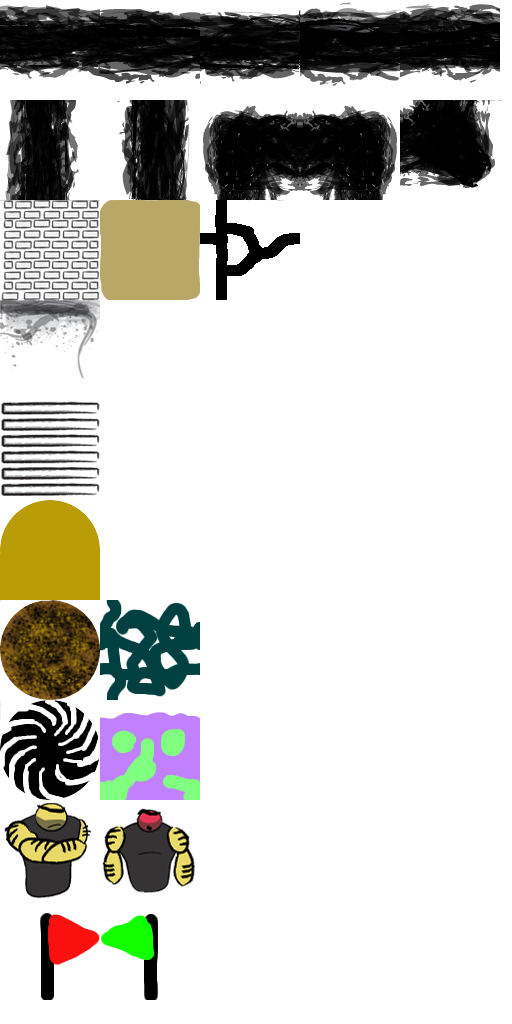
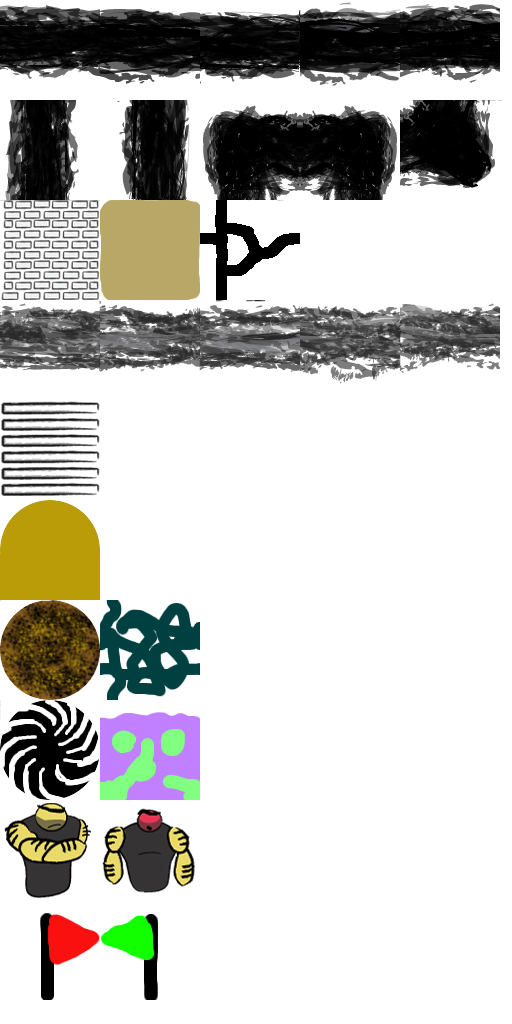
Added in random platforms and also fixed drawing of all corner tiles.

Changed region(s): [[0.0, 0.2812, 1.0, 0.375]]

diff --git a/src/wonder.cpp b/src/wonder.cpp
@@ -74,7 +74,11 @@ std::vector<Moveable*> Kurt::enable_ability(Map *m, int i, Player* p,
   setHSpeed(TILE_WIDTH);
   if (!will_collide_Dx(p) &&
       !will_collide_x(m) && 
-      !will_collide_tile(m, PLATFORM, NULL) &&
+      !will_collide_tile(m, PLATFORM1, NULL) &&
+      !will_collide_tile(m, PLATFORM2, NULL) &&
+      !will_collide_tile(m, PLATFORM3, NULL) &&
+      !will_collide_tile(m, PLATFORM4, NULL) &&
+      !will_collide_tile(m, PLATFORM5, NULL) &&
       !will_collide_specials(specials, i) &&
       !will_collide_moveables_x(moveables, -1, NULL))
   {
@@ -91,7 +95,11 @@ std::vector<Moveable*> Kurt::enable_ability(Map *m, int i, Player* p,
     setHSpeed(2*TILE_WIDTH);
     if (!will_collide_Dx(p) &&
         !will_collide_x(m) && 
-        !will_collide_tile(m, PLATFORM, NULL) &&
+        !will_collide_tile(m, PLATFORM1, NULL) &&
+        !will_collide_tile(m, PLATFORM2, NULL) &&
+        !will_collide_tile(m, PLATFORM3, NULL) &&
+        !will_collide_tile(m, PLATFORM4, NULL) &&
+        !will_collide_tile(m, PLATFORM5, NULL) &&
         !will_collide_specials(specials, i) &&
         !will_collide_moveables_x(moveables, -1, NULL))
     {
@@ -110,7 +118,11 @@ std::vector<Moveable*> Kurt::enable_ability(Map *m, int i, Player* p,
   setHSpeed(-TILE_WIDTH);
   if (!will_collide_Dx(p) &&
       !will_collide_x(m) && 
-      !will_collide_tile(m, PLATFORM, NULL) &&
+      !will_collide_tile(m, PLATFORM1, NULL) &&
+      !will_collide_tile(m, PLATFORM2, NULL) &&
+      !will_collide_tile(m, PLATFORM3, NULL) &&
+      !will_collide_tile(m, PLATFORM4, NULL) &&
+      !will_collide_tile(m, PLATFORM5, NULL) &&
       !will_collide_specials(specials, i) &&
       !will_collide_moveables_x(moveables, -1, NULL))
   {
@@ -126,7 +138,11 @@ std::vector<Moveable*> Kurt::enable_ability(Map *m, int i, Player* p,
     temp_move4->add_link(temp_move1);
     if (!will_collide_Dx(p) &&
         !will_collide_x(m) && 
-        !will_collide_tile(m, PLATFORM, NULL) &&
+        !will_collide_tile(m, PLATFORM1, NULL) &&
+        !will_collide_tile(m, PLATFORM2, NULL) &&
+        !will_collide_tile(m, PLATFORM3, NULL) &&
+        !will_collide_tile(m, PLATFORM4, NULL) &&
+        !will_collide_tile(m, PLATFORM5, NULL) &&
         !will_collide_specials(specials, i) &&
         !will_collide_moveables_x(moveables, -1, NULL))
     {

diff --git a/src/main.cpp b/src/main.cpp
@@ -209,12 +209,12 @@ void initLevel(int level)
 {
   // objects that are needed by the state
   Player *p;
-  Drawable *block1, *background, *breakable, *plat, *ladder, *paused_background;
+  Drawable *block1, *background, *breakable, *plat1, *ladder, *paused_background;
   Drawable *map_image, *pointer, *left_block, *right_block, *left_corner_block;
   Drawable *right_corner_block, *moveable, *goal, *block2, *block3, *block4;
   Drawable *block5, *black_hole, *bouncer_cr, *bouncer_cl, *bouncer_o, *rubber;
   Drawable *circuit, *n_check, *o_check, *toxic_sludge, *paused_names, *smog;
-  Drawable *br_bl, *bl_bl;
+  Drawable *br_bl, *bl_bl, *plat2, *plat3, *plat4, *plat5;
   Texture *t, *bg, *tiles, *pause_bg, *mi, *pi, *ahnold, *jumper, *nums, *ps_ic;
   Texture *engineer, *paris, *kurt, *p_names;
   vector<Texture*> textures;
@@ -378,7 +378,15 @@ void initLevel(int level)
   breakable = new Drawable(0.0f, 0.0f, BLOCKS, 1, TILE, tiles);
   moveable = new Drawable(0.0f, 0.0f, BLOCKS, 1, TILE, tiles);
   //moveable->set_cur_frame(MOVEABLE_BLOCK);
-  plat = new Drawable(0.0f, 0.0f, PLATS, 1, TILE, tiles);
+  plat1 = new Drawable(0.0f, 0.0f, PLATS, 1, TILE, tiles);
+  plat2 = new Drawable(0.0f, 0.0f, PLATS, 1, TILE, tiles);
+  plat2->set_cur_frame(2);
+  plat3 = new Drawable(0.0f, 0.0f, PLATS, 1, TILE, tiles);
+  plat2->set_cur_frame(3);
+  plat4 = new Drawable(0.0f, 0.0f, PLATS, 1, TILE, tiles);
+  plat2->set_cur_frame(4);
+  plat5 = new Drawable(0.0f, 0.0f, PLATS, 1, TILE, tiles);
+  plat2->set_cur_frame(5);
   ladder = new Drawable(0.0f, 0.0f, LADDS, 1, TILE, tiles);
   paused_background = new Drawable(0.0f, 0.0f, 1, 1, BACKGROUND, pause_bg);
   map_image = new Drawable(PAUSE_MAP_X, PAUSE_MAP_Y, 1, 1, VARIABLE, mi);
@@ -424,7 +432,11 @@ void initLevel(int level)
   v.push_back(rubber);
   v.push_back(ladder);
   v.push_back(circuit);
-  v.push_back(plat);
+  v.push_back(plat1);
+  v.push_back(plat2);
+  v.push_back(plat3);
+  v.push_back(plat4);
+  v.push_back(plat5);
   v.push_back(breakable);
   v.push_back(goal);
   v.push_back(black_hole);

diff --git a/src/game_state.cpp b/src/game_state.cpp
@@ -871,7 +871,11 @@ void Game_State::update(int &delta)
     else if (speed > 0 && !c->will_collide_tile(map, LADDER, NULL) &&
              (c->setVSpeed((int)(TILE_HEIGHT * 1.3f)),
               will_collide = !c->will_collide_y(map) &&
-              !c->will_collide_tile(map, PLATFORM, NULL) &&
+              !c->will_collide_tile(map, PLATFORM1, NULL) &&
+              !c->will_collide_tile(map, PLATFORM2, NULL) &&
+              !c->will_collide_tile(map, PLATFORM3, NULL) &&
+              !c->will_collide_tile(map, PLATFORM4, NULL) &&
+              !c->will_collide_tile(map, PLATFORM5, NULL) &&
               !c->will_collide_tile(map, LADDER, NULL) &&
               !c->will_collide_moveables_y(moveables, -1, NULL) &&
               !c->will_collide_specials_y(specials, -1, NULL) &&

diff --git a/src/map.cpp b/src/map.cpp
@@ -406,7 +406,17 @@ bool Map::load_map(const char *map_bmp, vector<Moveable *> &moveables,
       // platform (can jump from bottom)
       else if(red[0] == 128 && green[0] == 128 && blue[0] == 128)
       {
-        map[x][y][M_TILE] = PLATFORM;
+        if (x > 0)
+        {
+          do
+          {
+            map[x][y][M_TILE] = rand() % 5 + PLATFORM1; // randomly selects a block 1-5
+          } while (map[x-1][y][M_TILE] == map[x][y][M_TILE]);
+        }
+        else
+        {
+          map[x][y][M_TILE] = rand() % 5 + PLATFORM1; // randomly selects a block 1-5
+        }
       }
       // breakeabe block
       else if(red[0] == 0 && green[0] == 128 && blue[0] == 255)

diff --git a/src/drawable.cpp b/src/drawable.cpp
@@ -146,19 +146,19 @@ void Drawable::draw(void)
     {
       // top left
       glTexCoord2d(corners[0][1], corners[1][0]);
-      glVertex3i(0, height, 0);
+      glVertex3i(0, 0, 0);
       
       // top right
       glTexCoord2d(corners[0][0], corners[1][0]);
-      glVertex3i(width, height, 0);
+      glVertex3i(width, 0, 0);
       
       // bottom right
       glTexCoord2d(corners[0][0], corners[1][1]);
-      glVertex3i(width, 0, 0);
+      glVertex3i(width, height, 0);
       
       // bottom left
       glTexCoord2d(corners[0][1], corners[1][1]);
-      glVertex3i(0, 0, 0);
+      glVertex3i(0, height, 0);
     }
     else
     {

diff --git a/src/character.cpp b/src/character.cpp
@@ -228,7 +228,11 @@ bool Character::will_collide_platform(Map *m)
   {
     for (int j = ty; j <= by; ++j)
     {
-      if(m->get_tile(i,j) == PLATFORM)
+      if(m->get_tile(i,j) == PLATFORM1 ||
+         m->get_tile(i,j) == PLATFORM2 ||
+         m->get_tile(i,j) == PLATFORM3 ||
+         m->get_tile(i,j) == PLATFORM4 ||
+         m->get_tile(i,j) == PLATFORM5)
       {
         if (j * TILE_HEIGHT + tym + PLAYER_SPEED >= tyo)
         {

diff --git a/src/defines.h b/src/defines.h
@@ -146,7 +146,11 @@ typedef enum
   RUBBER,
   LADDER,
   CIRCUIT,
-  PLATFORM,
+  PLATFORM1,
+  PLATFORM2,
+  PLATFORM3,
+  PLATFORM4,
+  PLATFORM5,
   BREAKABLE,
   GOAL,
   BLACK_HOLE,
